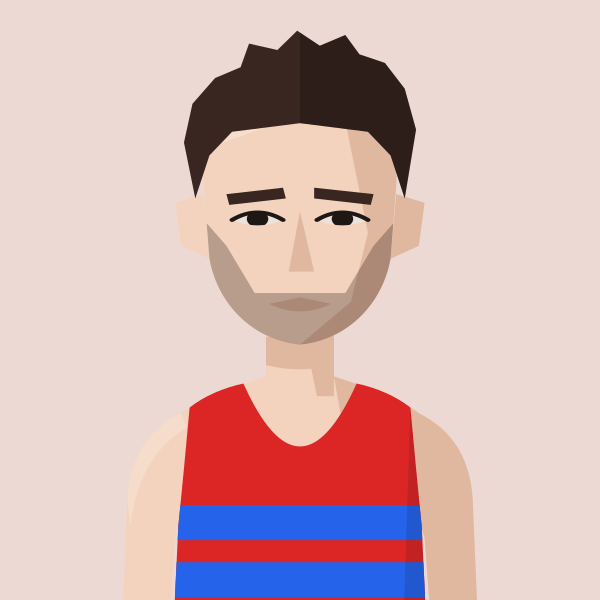
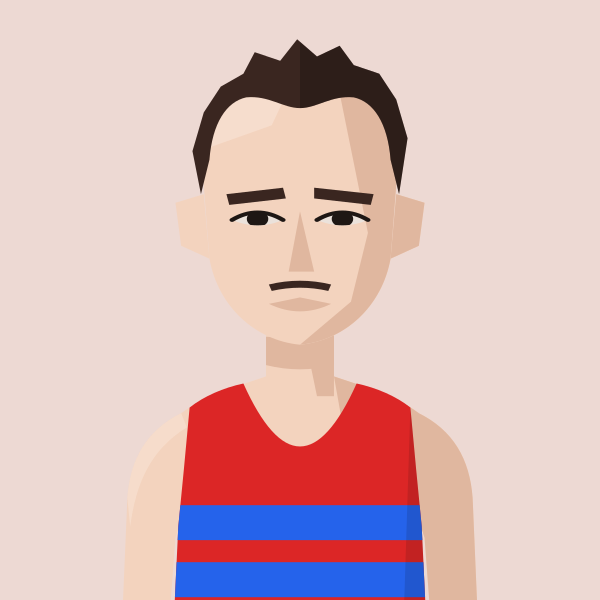
Add 12 from Mitcham Common Jan 2026 incl. Arthur Peel with necklace; Max Milarvie redrawn
Claude-Session: https://claude.ai/code/session_01MgmDWhFqnSSnP4iBLKXUZC

Changed region(s): [[0.3, 0.03, 0.69, 0.33], [0.33, 0.36, 0.66, 0.6]]

diff --git a/files/index.html b/files/index.html
@@ -573,11 +573,11 @@ const LoadingVests=()=>{
 const PORTRAIT_CLUBS=new Set(['BEL','KEN','THH','HHH','H/W','SLH','G&G','RAN','C/C','DUL','HOL','WAL','CRO','WOK','E&E','FUL','SOC','BOX','BOH','AFD','SUR','MIT','REI','DMV','STR','W4H','W/W','K&P','S&D','SEL','DWN','FOT','LCR','ADV','262','MPA','BAC','OME','VAC','HER']);
 // Superstar portraits: every spelling of the athlete's name used in the data -> file in portraits/athletes/
 const PORTRAITS=(()=>{const m={};const add=(file,club,...names)=>names.forEach(n=>m[n.toLowerCase()]={file,club});
-add('kitty-shepherd-cross','BEL','Kitty Shepherd-Cross','Kitty Shepherd Cross');add('jack-kavanagh','HOL','Jack Kavanagh');add('sam-bramwell','HHH','Sam Bramwell');add('suzie-harvey','G&G','Suzie Harvey');add('freddie-hessian','H/W','Freddie Hessian');add('jamie-crowe','H/W','Jamie Crowe');add('sam-gebreselassie','BEL','Samuel Gebreselassie','Sam Gebreselassie');add('jack-brotchie','HHH','Jack Brotchie');add('jack-millar','THH','Jack Millar');add('lucy-jones','HHH','Lucy Jones');add('alex-milne','H/W','Alex Milne');add('josh-trigwell','BEL','Josh Trigwell');add('mack-downie','BEL','Mack Downey','Mack Downie');add('george-ogden','SLH','George Ogden');add('stuart-mccallum','H/W','Stuart McCallum');add('andrew-penney','H/W','Andrew Penney');add('jeremy-dempsey','THH','Jeremy Dempsey');add('henry-hart','BEL','Henry Hart');add('john-sanderson','G&G','John Sanderson');add('andy-fyfe','BEL','Andrew Fyfe','Andy Fyfe');add('saron-haileselase','BEL','Saron Haileselase');add('paskar-owor','BEL','Paskar Owor');add('ruby-carter','H/W','Ruby Carter');add('tom-foster','G&G','Tom Foster');add('mark-tennyson','G&G','Mark Tennyson');add('richard-ollington','THH','Richard Ollington');add('james-preston','BEL','James Preston');add('daniel-wolff','BEL','Daniel Wolff');add('jonny-scott','BEL','Jonathan Scott','Jonny Scott');add('josh-mitchell','BEL','Josh Mitchell');add('dylan-evans','BEL','Dylan Evans');add('morgan-roberts','HHH','Morgan Roberts');add('fred-slemeck','H/W','Fred Slemeck','Frederick Slemeck');add('matthew-edgar','BEL','Matthew Edgar');add('sam-sommerville','BEL','Sam Sommerville');add('richard-mcdowell','H/W','Richard McDowell');add('margaret-coogan','HHH','Margaret Coogan');add('owen-hind','KEN','Owen Hind','Owen Hinds');add('indy-barnes','THH','Indy Barnes');add('conall-mcnally','BEL','Conall McNally');add('rowan-board','HHH','Rowan Board');add('andy-weir','THH','Andy Weir','Andrew Weir');add('neil-chisholm','THH','Neil Chisholm','Neal Chisholm');add('pancho-panchev','H/W','Pancho Panchev');add('adrien-royer','G&G','Adrien Royer');add('rob-kelly','BEL','Robert Kelly','Rob Kelly');add('alex-janiaud','BEL','Alex Janiaud');add('tom-renshaw','THH','Thomas Renshaw','Tom Renshaw');add('jack-ramm','DUL','Jack Ramm');add('findlay-dyer','BEL','Findlay Dyer');add('james-blackwood','DUL','James Blackwood');add('sonny-nicoll','H/W','Sonny Nicoll');add('anisse-ismaili','THH','Anisse Ismaili');add('caleb-hathaway','HHH','Caleb Hathaway');add('barnaby-day','KEN','Barnaby Day');add('simon-coppard','BEL','Simon Coppard');add('ronan-tanguy','HHH','Ronan Tanguy');add('chris-threadgold','BEL','Chris Threadgold');add('mathew-speed','KEN','Mathew Speed','Matthew Speed');add('john-lethbridge','THH','John Lethbridge');add('oliver-fox','THH','Oliver Fox');add('jack-woods','HOL','Jack Woods');add('larry-ryan','BEL','Larry Ryan');add('ethan-mccolgan','THH','Ethan McColgan');add('jonathan-collier','KEN','Jonathan Collier');add('andrew-green','HOL','Andrew Green','Andy Green');add('fintan-pearce','BEL','Fintan Pearce');add('daniel-shaw','HHH','Daniel Shaw');add('sam-tyas','BEL','Sam Tyas');add('tom-austin','HHH','Tom Austin');add('ian-ellwood','KEN','Ian Ellwood');add('rian-mccawley','BEL','Rian McCawley');add('kieran-barnes','HOL','Kieran Barnes');add('ed-mallett','H/W','Ed Mallett','Edward Mallett');add('john-hutchins','WOK','John Hutchins');add('george-gathercole','THH','George Gathercole');add('nick-lightfoot','G&G','Nick Lightfoot');add('eoin-brady','H/W','Eoin Brady');add('james-stockings','H/W','James Stockings');add('jack-hobden','H/W','Jack Hobden');add('hugo-hewitt','HOL','Hugo Hewitt');add('zach-nolan','BEL','Zach Nolan');add('isaac-lutaya','H/W','Isaac Lutaya');add('oliver-young','BEL','Oliver Young');add('ben-racle','KEN','Ben Racle');add('josh-snow','BEL','Josh Snow');add('oliver-reynolds','BEL','Oliver Reynolds');add('aaron-wilson','DUL','Aaron Wilson');add('liam-burthem','HHH','Liam Burthem');add('dan-pettitt','KEN','Dan Pettitt');add('bob-holt','H/W','Bob Holt');add('dave-holt','H/W','Dave Holt');add('mike-fuller','H/W','Mike Fuller');add('gerry-north','BEL','Gerry North');add('steve-gardner','BEL','Steve Gardner');add('alex-yee','KEN','Alex Yee');add('phil-wicks','BEL','Phil Wicks');add('john-gilbert','KEN','John Gilbert','Jonathan Gilbert');add('chris-busaileh','KEN','Chris Busaileh');add('jim-allchin','KEN','Jim Allchin');add('finn-johnson','H/W','Finn Johnson');add('will-cockerell','BEL','William Cockerell','Will Cockerell');add('nick-goolab','BEL','Nick Goolab');add('arne-dumez','BEL','Arne Dumez');add('geoff-jerwood','HHH','Geoff Jerwood','G Jerwood');add('alex-lee','HHH','Alex Lee');add('benedict-whitby','HHH','Benedict Whitby');add('falilou-kebe','BEL','Falilou Kebe');add('jack-dickson','H/W','Jack Dickson');add('charlie-dickinson','BEL','Charlie Dickinson','C Dickinson');add('phil-swinburn','HOL','Phil Swinburn');add('rob-armstrong','DUL','Rob Armstrong');add('ashley-goncalves','HHH','Ashley Goncalves');add('eddie-jodrell','BEL','Eddie Jodrell');add('thomas-gandee','BEL','Thomas Gandee');add('max-milarvie','DUL','Max Milarvie');add('alex-lennon','BEL','Alex Lennon');add('james-hoad','THH','James Hoad');add('william-gardner','BEL','William Gardner');add('paddy-roddy','THH','Paddy Roddy','PADDY RoDDY');add('simon-waterhouse','BEL','Simon Waterhouse');add('conall-whelan','BEL','Conall Whelan');add('simon-williams','BEL','Simon Williams');add('christian-lee','HOL','Christian Lee');add('sean-cordon','DUL','Sean Cordon','sean cordon');add('michael-mccarthy','BEL','Michael McCarthy','Michael Mccarthy');add('jeff-cunningham','HHH','Jeff Cunningham');add('sam-peters','H/W','Sam Peters');add('ryan-hickey','HHH','Ryan Hickey');add('ben-scott','BEL','Ben Scott');add('tom-gifford','BEL','Tom Gifford');add('valentin-rigori','BEL','Valentin Rigori');add('david-grima','H/W','David Grima');add('deron-fagan','HHH','Deron Fagan');add('lee-lintern','G&G','Lee Lintern');add('ian-acreman','G&G','Ian Acreman');add('alex-howard','THH','Alex Howard');add('james-hancock','BEL','James Hancock');add('nick-morris','BEL','Nick Morris');add('richard-sun','H/W','Richard Sun');add('jonathan-cocker','G&G','Jonathan Cocker');add('isobel-hodder','BEL','Isobel Hodder');add('emma-howsham','G&G','Emma Howsham');add('eilidh-hide','BEL','Eilidh Hide');add('karen-xiang','BEL','Karen Xiang');add('claire-grima','H/W','Claire Grima');add('emma-gordon','BEL','Emma Gordon');add('emily-lowery','BEL','Emily Lowery');add('felicity-harrison','BEL','Felicity Harrison');add('alice-martin','HOL','Alice Martin');add('juliet-hodder','BEL','Juliet Hodder');add('abbie-bulbulian','C/C','Abbie Bulbulian');add('lara-mangan','BEL','Lara Mangan');add('clare-elms','KEN','Clare Elms');add('james-nutt','HHH','James Nutt');add('colin-high','G&G','Colin High');add('ruby-whyte-wilding','BEL','Ruby Whyte-Wilding');add('sophie-tooley','HHH','Sophie Tooley');add('catherine-kandie','KEN','Catherine Kandie');add('olivia-stillman','HHH','Olivia Stillman');add('alex-gandee','BEL','Alex Gandee');add('billie-mcclosky','BEL','Billie McClosky');add('lisa-bailey','STR','Lisa Bailey');add('amy-clements','KEN','Amy Clements');add('bethanie-murray','THH','Bethanie Murray');add('evie-warren','G&G','Evie Warren');add('lucy-peters','BEL','Lucy Peters');add('emma-lord','H/W','Emma Lord');add('alice-bridger-morales','HHH','Alice Bridger Morales');add('emily-bradley','BEL','Emily Bradley');add('isabelle-pickett','G&G','Isabelle Pickett');add('felicity-hayward','THH','Felicity Hayward');add('gabriel-reynolds','HHH','Gabriel Reynolds');add('lara-bromilow','KEN','Lara Bromilow');add('megan-gildea','HHH','Megan Gildea');add('maeve-kenny','SLH','Maeve Kenny');add('emilie-arnoux','BEL','Emilie Arnoux');add('katie-good','KEN','Katie Good');add('ellie-freeden','KEN','Ellie Freeden');add('alice-smith','SLH','Alice Smith');add('florence-wiggins','THH','Florence Wiggins');add('alexandra-barbour','BEL','Alexandra Barbour');add('ella-king-powrie','BEL','Ella King Powrie');add('betsy-griffiths','RAN','Betsy Griffiths');add('nicola-douglas','STR','Nicola Douglas');add('georgie-furze','WOK','Georgie Furze');add('emma-rowland','BEL','Emma Rowland');add('charlotte-griffiths','BEL','Charlotte Griffiths');add('mary-james','SLH','Mary James');add('penny-oliver','BEL','Penny Oliver');add('ava-mcandie','H/W','Ava McAndie');add('bethan-goddard','BEL','Bethan Goddard');add('nikki-sturzaker','HHH','Nikki Sturzaker');add('hannah-english','HHH','Hannah English');add('clara-pettit','H/W','Clara Pettit');
+add('kitty-shepherd-cross','BEL','Kitty Shepherd-Cross','Kitty Shepherd Cross');add('jack-kavanagh','HOL','Jack Kavanagh');add('sam-bramwell','HHH','Sam Bramwell');add('suzie-harvey','G&G','Suzie Harvey');add('freddie-hessian','H/W','Freddie Hessian');add('jamie-crowe','H/W','Jamie Crowe');add('sam-gebreselassie','BEL','Samuel Gebreselassie','Sam Gebreselassie');add('jack-brotchie','HHH','Jack Brotchie');add('jack-millar','THH','Jack Millar');add('lucy-jones','HHH','Lucy Jones');add('alex-milne','H/W','Alex Milne');add('josh-trigwell','BEL','Josh Trigwell');add('mack-downie','BEL','Mack Downey','Mack Downie');add('george-ogden','SLH','George Ogden');add('stuart-mccallum','H/W','Stuart McCallum');add('andrew-penney','H/W','Andrew Penney');add('jeremy-dempsey','THH','Jeremy Dempsey');add('henry-hart','BEL','Henry Hart');add('john-sanderson','G&G','John Sanderson');add('andy-fyfe','BEL','Andrew Fyfe','Andy Fyfe');add('saron-haileselase','BEL','Saron Haileselase');add('paskar-owor','BEL','Paskar Owor');add('ruby-carter','H/W','Ruby Carter');add('tom-foster','G&G','Tom Foster');add('mark-tennyson','G&G','Mark Tennyson');add('richard-ollington','THH','Richard Ollington');add('james-preston','BEL','James Preston');add('daniel-wolff','BEL','Daniel Wolff');add('jonny-scott','BEL','Jonathan Scott','Jonny Scott');add('josh-mitchell','BEL','Josh Mitchell');add('dylan-evans','BEL','Dylan Evans');add('morgan-roberts','HHH','Morgan Roberts');add('fred-slemeck','H/W','Fred Slemeck','Frederick Slemeck');add('matthew-edgar','BEL','Matthew Edgar');add('sam-sommerville','BEL','Sam Sommerville');add('richard-mcdowell','H/W','Richard McDowell');add('margaret-coogan','HHH','Margaret Coogan');add('owen-hind','KEN','Owen Hind','Owen Hinds');add('indy-barnes','THH','Indy Barnes');add('conall-mcnally','BEL','Conall McNally');add('rowan-board','HHH','Rowan Board');add('andy-weir','THH','Andy Weir','Andrew Weir');add('neil-chisholm','THH','Neil Chisholm','Neal Chisholm');add('pancho-panchev','H/W','Pancho Panchev');add('adrien-royer','G&G','Adrien Royer');add('rob-kelly','BEL','Robert Kelly','Rob Kelly');add('alex-janiaud','BEL','Alex Janiaud');add('tom-renshaw','THH','Thomas Renshaw','Tom Renshaw');add('jack-ramm','DUL','Jack Ramm');add('findlay-dyer','BEL','Findlay Dyer');add('james-blackwood','DUL','James Blackwood');add('sonny-nicoll','H/W','Sonny Nicoll');add('anisse-ismaili','THH','Anisse Ismaili');add('caleb-hathaway','HHH','Caleb Hathaway');add('barnaby-day','KEN','Barnaby Day');add('simon-coppard','BEL','Simon Coppard');add('ronan-tanguy','HHH','Ronan Tanguy');add('chris-threadgold','BEL','Chris Threadgold');add('mathew-speed','KEN','Mathew Speed','Matthew Speed');add('john-lethbridge','THH','John Lethbridge');add('oliver-fox','THH','Oliver Fox');add('jack-woods','HOL','Jack Woods');add('larry-ryan','BEL','Larry Ryan');add('ethan-mccolgan','THH','Ethan McColgan');add('jonathan-collier','KEN','Jonathan Collier');add('andrew-green','HOL','Andrew Green','Andy Green');add('fintan-pearce','BEL','Fintan Pearce');add('daniel-shaw','HHH','Daniel Shaw');add('sam-tyas','BEL','Sam Tyas');add('tom-austin','HHH','Tom Austin');add('ian-ellwood','KEN','Ian Ellwood');add('rian-mccawley','BEL','Rian McCawley');add('kieran-barnes','HOL','Kieran Barnes');add('ed-mallett','H/W','Ed Mallett','Edward Mallett');add('john-hutchins','WOK','John Hutchins');add('george-gathercole','THH','George Gathercole');add('nick-lightfoot','G&G','Nick Lightfoot');add('eoin-brady','H/W','Eoin Brady');add('james-stockings','H/W','James Stockings');add('jack-hobden','H/W','Jack Hobden');add('hugo-hewitt','HOL','Hugo Hewitt');add('zach-nolan','BEL','Zach Nolan');add('isaac-lutaya','H/W','Isaac Lutaya');add('oliver-young','BEL','Oliver Young');add('ben-racle','KEN','Ben Racle');add('josh-snow','BEL','Josh Snow');add('oliver-reynolds','BEL','Oliver Reynolds');add('aaron-wilson','DUL','Aaron Wilson');add('liam-burthem','HHH','Liam Burthem');add('dan-pettitt','KEN','Dan Pettitt');add('bob-holt','H/W','Bob Holt');add('dave-holt','H/W','Dave Holt');add('mike-fuller','H/W','Mike Fuller');add('gerry-north','BEL','Gerry North');add('steve-gardner','BEL','Steve Gardner');add('alex-yee','KEN','Alex Yee');add('phil-wicks','BEL','Phil Wicks');add('john-gilbert','KEN','John Gilbert','Jonathan Gilbert');add('chris-busaileh','KEN','Chris Busaileh');add('jim-allchin','KEN','Jim Allchin');add('finn-johnson','H/W','Finn Johnson');add('will-cockerell','BEL','William Cockerell','Will Cockerell');add('nick-goolab','BEL','Nick Goolab');add('arne-dumez','BEL','Arne Dumez');add('geoff-jerwood','HHH','Geoff Jerwood','G Jerwood');add('alex-lee','HHH','Alex Lee');add('benedict-whitby','HHH','Benedict Whitby');add('falilou-kebe','BEL','Falilou Kebe');add('jack-dickson','H/W','Jack Dickson');add('charlie-dickinson','BEL','Charlie Dickinson','C Dickinson');add('phil-swinburn','HOL','Phil Swinburn');add('rob-armstrong','DUL','Rob Armstrong');add('ashley-goncalves','HHH','Ashley Goncalves');add('eddie-jodrell','BEL','Eddie Jodrell');add('thomas-gandee','BEL','Thomas Gandee');add('max-milarvie','DUL','Max Milarvie');add('alex-lennon','BEL','Alex Lennon');add('james-hoad','THH','James Hoad');add('william-gardner','BEL','William Gardner');add('paddy-roddy','THH','Paddy Roddy','PADDY RoDDY');add('simon-waterhouse','BEL','Simon Waterhouse');add('conall-whelan','BEL','Conall Whelan');add('simon-williams','BEL','Simon Williams');add('christian-lee','HOL','Christian Lee');add('sean-cordon','DUL','Sean Cordon','sean cordon');add('michael-mccarthy','BEL','Michael McCarthy','Michael Mccarthy');add('jeff-cunningham','HHH','Jeff Cunningham');add('sam-peters','H/W','Sam Peters');add('ryan-hickey','HHH','Ryan Hickey');add('ben-scott','BEL','Ben Scott');add('tom-gifford','BEL','Tom Gifford');add('valentin-rigori','BEL','Valentin Rigori');add('david-grima','H/W','David Grima');add('deron-fagan','HHH','Deron Fagan');add('lee-lintern','G&G','Lee Lintern');add('ian-acreman','G&G','Ian Acreman');add('alex-howard','THH','Alex Howard');add('james-hancock','BEL','James Hancock');add('nick-morris','BEL','Nick Morris');add('richard-sun','H/W','Richard Sun');add('jonathan-cocker','G&G','Jonathan Cocker');add('isobel-hodder','BEL','Isobel Hodder');add('emma-howsham','G&G','Emma Howsham');add('eilidh-hide','BEL','Eilidh Hide');add('karen-xiang','BEL','Karen Xiang');add('claire-grima','H/W','Claire Grima');add('emma-gordon','BEL','Emma Gordon');add('emily-lowery','BEL','Emily Lowery');add('felicity-harrison','BEL','Felicity Harrison');add('alice-martin','HOL','Alice Martin');add('juliet-hodder','BEL','Juliet Hodder');add('abbie-bulbulian','C/C','Abbie Bulbulian');add('lara-mangan','BEL','Lara Mangan');add('clare-elms','KEN','Clare Elms');add('james-nutt','HHH','James Nutt');add('colin-high','G&G','Colin High');add('gavin-eccles','BEL','Gavin Eccles');add('nicholas-torry','KEN','Nicholas Torry');add('samuel-dames','KEN','Samuel Dames');add('tom-lole','BEL','Tom Lole');add('will-marshall','BEL','Will Marshall');add('stephen-mcleod','HHH','Stephen McLeod');add('rory-orsborn','HHH','Rory Orsborn');add('thomas-dugre','BEL','Thomas Dugre');add('arthur-peel','BEL','Arthur Peel');add('angus-lamb','BEL','Angus Lamb');add('andrew-warburton','HHH','Andrew Warburton');add('robert-laing','KEN','Robert Laing');add('ruby-whyte-wilding','BEL','Ruby Whyte-Wilding');add('sophie-tooley','HHH','Sophie Tooley');add('catherine-kandie','KEN','Catherine Kandie');add('olivia-stillman','HHH','Olivia Stillman');add('alex-gandee','BEL','Alex Gandee');add('billie-mcclosky','BEL','Billie McClosky');add('lisa-bailey','STR','Lisa Bailey');add('amy-clements','KEN','Amy Clements');add('bethanie-murray','THH','Bethanie Murray');add('evie-warren','G&G','Evie Warren');add('lucy-peters','BEL','Lucy Peters');add('emma-lord','H/W','Emma Lord');add('alice-bridger-morales','HHH','Alice Bridger Morales');add('emily-bradley','BEL','Emily Bradley');add('isabelle-pickett','G&G','Isabelle Pickett');add('felicity-hayward','THH','Felicity Hayward');add('gabriel-reynolds','HHH','Gabriel Reynolds');add('lara-bromilow','KEN','Lara Bromilow');add('megan-gildea','HHH','Megan Gildea');add('maeve-kenny','SLH','Maeve Kenny');add('emilie-arnoux','BEL','Emilie Arnoux');add('katie-good','KEN','Katie Good');add('ellie-freeden','KEN','Ellie Freeden');add('alice-smith','SLH','Alice Smith');add('florence-wiggins','THH','Florence Wiggins');add('alexandra-barbour','BEL','Alexandra Barbour');add('ella-king-powrie','BEL','Ella King Powrie');add('betsy-griffiths','RAN','Betsy Griffiths');add('nicola-douglas','STR','Nicola Douglas');add('georgie-furze','WOK','Georgie Furze');add('emma-rowland','BEL','Emma Rowland');add('charlotte-griffiths','BEL','Charlotte Griffiths');add('mary-james','SLH','Mary James');add('penny-oliver','BEL','Penny Oliver');add('ava-mcandie','H/W','Ava McAndie');add('bethan-goddard','BEL','Bethan Goddard');add('nikki-sturzaker','HHH','Nikki Sturzaker');add('hannah-english','HHH','Hannah English');add('clara-pettit','H/W','Clara Pettit');
 return m;})();
 // Athlete header figure: superstar portrait if we have one, else a grey runner in the club vest, else the plain vest icon
 // Changes whenever any portrait changes (set by tools/build_og.py), so browsers fetch fresh images instead of old cached ones
-const PORTRAIT_V='d000ddeb';
+const PORTRAIT_V='1718189b';
 const AthletePortrait=({name,club,w,fill,onClick})=>{const[failed,setFailed]=useState(false);const pk=PORTRAITS[normalizeNameForCompare(name).replace(/\s*\([^)]*\)$/,'')];const file=pk&&pk.club===club?pk.file:null;const src=file?`/portraits/athletes/${file}.svg?v=${PORTRAIT_V}`:PORTRAIT_CLUBS.has(club)?`/portraits/clubs/${club.replace(/\//g,'').replace(/&/g,'and')}.svg?v=${PORTRAIT_V}`:null;if(!src||failed)return<div onClick={onClick} className={onClick?'cursor-pointer':''}><ClubShield club={club} size={w}/></div>;const h=Math.round(w*148/126),ih=Math.round(w*1.4);if(fill)return<div onClick={onClick} className="cursor-pointer" style={{alignSelf:'stretch',minHeight:h,aspectRatio:'126 / 148',flexShrink:0,position:'relative',borderRadius:4,overflow:'hidden'}}><img src={src} alt={file?`Portrait of ${name.replace(/\s*\([^)]*\)$/,'')}`:`Runner in ${CLUBS[club]?.name||club} vest`} style={{position:'absolute',top:0,left:0,display:'block',width:'100%',height:'auto'}} onError={()=>setFailed(true)}/></div>;return<div style={{width:w,height:h,borderRadius:4,overflow:'hidden',flexShrink:0}}><img src={src} alt={file?`Portrait of ${name.replace(/\s*\([^)]*\)$/,'')}`:`Runner in ${CLUBS[club]?.name||club} vest`} width={w} height={ih} style={{display:'block',width:w,height:ih}} onError={()=>setFailed(true)}/></div>;};
 const getClubVestSvg=(club)=>{
   const p="M3 0 L6 0 Q7 4 10 5 Q13 4 14 0 L17 0 L17 20 L3 20 Z";

diff --git a/tools/gen_portraits.py b/tools/gen_portraits.py
@@ -130,6 +130,7 @@ HAIR["messyfringe"] = '<path d="M63,102 L59,76 L62,58 L70,46 L79,41 L82,30 L92,3
 HAIR["wavyback"] = '<path d="M64,108 C60,58 80,38 100,38 C121,38 140,58 136,108 L131,88 Q128,72 117,66 Q108,63 100,64 Q90,63 82,67 Q72,73 69,88 Z"/><path d="M64,96 Q56,104 60,114 Q54,122 60,132 Q56,142 64,148 L68,140 Q64,132 67,124 Q63,116 67,108 Z"/><path d="M136,96 Q144,104 140,114 Q146,122 140,132 Q144,142 136,148 L132,140 Q136,132 133,124 Q137,116 133,108 Z"/>'
 HAIR_BACK["wavyback"] = '<path d="M60,90 C58,54 80,36 100,36 C120,36 142,54 140,90 Q148,104 142,118 Q150,132 140,146 Q144,158 132,160 L68,160 Q56,158 60,146 Q50,132 58,118 Q52,104 60,90 Z"/>'
 FACIAL = {
+    "littletache": '<path d="M89,142 Q100,138.5 111,142 L110,145 Q100,142 90,145 Z"/>',
     "shortbeard": '<path d="M66,112 L74,124 L84,146 L116,146 L126,124 L134,112 L134,180 L66,180 Z" opacity=".6"/><path d="M86,141 L100,138 L114,141 L113,146 L100,143.5 L87,146 Z" opacity=".7"/>',
     "mostubble": '<path d="M66,112 L74,124 L84,146 L116,146 L126,124 L134,112 L134,180 L66,180 Z" opacity=".32"/><path d="M84,141 L100,137 L116,141 L117,150 L112,147 L100,144 L88,147 L83,150 Z"/>',
     "muttonchops": '<path d="M65,98 L70,98 L71,120 Q74,134 84,143 Q86,148 82,151 Q74,151 70,143 Q66,132 65,118 Z"/><path d="M135,98 L130,98 L129,120 Q126,134 116,143 Q114,148 118,151 Q126,151 130,143 Q134,132 135,118 Z"/>',
@@ -142,7 +143,7 @@ FACIAL = {
 def _eyewhite(sk):  # an off-white, tinted towards the skin so it never glares
     return '#' + ''.join(f'{round(int(sk[i:i+2],16)*0.3+0xE8*0.7):02X}' for i in (1,3,5))
 
-def figure(kit, mode="custom", skin=1, hair="crop", hair_colour="dark brown", facial=None, cap=None, shades=False, tattoos=False, beanie=None, mud=False, glasses=False, roots=None, stars=0, gaunt=False, greying=False, headband=None, cap_back=False, facial_colour=None, tag="f", shades_col=None, shades_up=False, scrunchie=None, crown=False, jacket=None, medal=None, temples=False, cleft=False, brow_colour=None, jacket_marks=None, define=None, frown=False, hood=None, puffy=False, creases=False):
+def figure(kit, mode="custom", skin=1, hair="crop", hair_colour="dark brown", facial=None, cap=None, shades=False, tattoos=False, beanie=None, mud=False, glasses=False, roots=None, stars=0, gaunt=False, greying=False, headband=None, cap_back=False, facial_colour=None, tag="f", shades_col=None, shades_up=False, scrunchie=None, crown=False, jacket=None, medal=None, temples=False, cleft=False, brow_colour=None, jacket_marks=None, define=None, frown=False, hood=None, puffy=False, creases=False, necklace=None):
     primary, extras, ground = KITS[kit]
     line = mode == "outline"
     if mode == "custom": sk, dk, lt = SKIN[skin]
@@ -223,7 +224,7 @@ def figure(kit, mode="custom", skin=1, hair="crop", hair_colour="dark brown", fa
             hg.append(f'<g fill="{dk}" opacity=".65"><path d="M74,118 Q86,121 90,139 Q84,131 75,122 Z"/><path d="M126,118 Q114,121 110,139 Q116,131 125,122 Z"/></g><g fill="{lt}" opacity=".6"><path d="M73,115 Q84,115 90,120 Q82,117 73,117 Z"/><path d="M127,115 Q116,115 110,120 Q118,117 127,117 Z"/></g>')
         if facial:
             fc = HAIR_COL.get(facial_colour, facial_colour) if facial_colour else hc
-            if facial in ("moustache", "goatee"):
+            if facial in ("moustache", "goatee", "littletache"):
                 hg.append(f'<g fill="{fc}">{FACIAL[facial]}</g>')
             else:
                 hg.append(f'<g clip-path="url(#h{tag})" fill="{fc}">{FACIAL[facial]}</g>')
@@ -310,6 +311,9 @@ def figure(kit, mode="custom", skin=1, hair="crop", hair_colour="dark brown", fa
     # kit: the site's own vest icon, scaled into this vest
     if not jacket: o.append(f'<g clip-path="url(#v{tag})"><path d="{VEST}" fill="{primary}"/><g {KIT_MAP}>{extras}</g>'
              f'<path d="M139,204 Q141,226 143,246 L147,330 L135,330 Z" fill="#000" opacity="{0 if line else .12}"/></g>')
+    if necklace:  # thin chain resting on the collarbones
+        o.append(f'<path d="M87,195 Q90,214 100,224 Q110,214 113,195" fill="none" stroke="{necklace}" stroke-width="1.6" stroke-linecap="round"/>'
+                 f'<path d="M87,195 Q90,214 100,224 Q110,214 113,195" fill="none" stroke="#000" stroke-opacity=".25" stroke-width="1.6" stroke-dasharray="1.2 1.6"/>')
     if medal:  # medal on a ribbon that loops round the back of the neck
         mc = {"gold": ("#D9AA3E", "#BE9030")}[medal]
         o.append('<path d="M79,197 L88,193 L99,252 L92,252 Z" fill="#2B5BB8"/><path d="M121,197 L112,193 L101,252 L108,252 Z" fill="#234C9A"/>'
@@ -540,7 +544,7 @@ save("eddie-jodrell", figure("BEL", skin=2, hair="crop", hair_colour="#2E211B"))
 save("thomas-gandee", figure("BEL", skin=1, hair="quiff", hair_colour="#B9955E"))
 # Wimbledon Common, Feb 2026 (race 439)
 W439 = [
- ("max-milarvie","DUL","Max Milarvie",dict(skin=1,hair="tousled",hair_colour="#3A2620",facial="stubble"),"tousled dark brown hair, stubble"),
+ ("max-milarvie","DUL","Max Milarvie",dict(skin=1,hair="tuftrecede",hair_colour="#3A2620",facial="littletache"),"slightly receding dark hair, little moustache"),
  ("alex-lennon","BEL","Alex Lennon",dict(skin=1,hair="bigcurls",hair_colour="#3A2620"),"short dark curly hair"),
  ("james-hoad","THH","James Hoad",dict(skin=1,hair="crop",hair_colour="#6B4A2E"),"short mid brown hair"),
  ("william-gardner","BEL","William Gardner",dict(skin=1,hair="croppeak",hair_colour="#9A6A44",facial="stubble"),"short gingery hair with a widow peak, stubble"),
@@ -593,3 +597,22 @@ for slug, club, name, kw, alt in W440:
     save(slug, figure(club, **kw))
 save("james-nutt", figure("HHH", skin=1, hair="quiff", hair_colour="#5A3E2A"))
 save("colin-high", figure("G&G", skin=1, hair="horseshoe", hair_colour="#8E6643", facial="beard", facial_colour="#8A5A36"))
+# Mitcham Common, Jan 2026 (race 433)
+W433 = [
+ ("gavin-eccles","BEL","Gavin Eccles",dict(skin=1,hair="shortcurls",hair_colour="#2E211B"),"short dark wavy hair"),
+ ("nicholas-torry","KEN","Nicholas Torry",dict(skin=1,hair="crop",hair_colour="#8E6643",glasses=True),"short light brown hair, glasses"),
+ ("samuel-dames","KEN","Samuel Dames",dict(skin=1,hair="quiff",hair_colour="#9A7650",facial="beard"),"swept-up light brown hair, beard"),
+ ("tom-lole","BEL","Tom Lole",dict(skin=2,hair="crop",hair_colour="#2A1D18"),"short dark hair"),
+ ("will-marshall","BEL","Will Marshall",dict(skin=1,hair="quiff",hair_colour="#6B4A2E"),"swept-up brown hair"),
+ ("stephen-mcleod","HHH","Stephen McLeod",dict(skin=1,hair="crop",hair_colour="#2E211B",facial="beard"),"short dark hair, beard"),
+ ("rory-orsborn","HHH","Rory Orsborn",dict(skin=1,hair="bigcurls",hair_colour="#2E211B"),"big dark curls"),
+]
+W433 += [
+ ("thomas-dugre","BEL","Thomas Dugre",dict(skin=1,hair="quiff",hair_colour="#6B4A2E",facial="shortbeard"),"swept-up brown hair, trimmed beard"),
+ ("arthur-peel","BEL","Arthur Peel",dict(skin=1,hair="crop",hair_colour="#6B4A2E",necklace="#CFCFCF"),"short brown hair, silver chain necklace"),
+ ("angus-lamb","BEL","Angus Lamb",dict(skin=1,hair="quiff",hair_colour="#8E6643"),"swept-up light brown hair"),
+ ("andrew-warburton","HHH","Andrew Warburton",dict(skin=1,hair="crop",hair_colour="#2E211B",facial="shortbeard"),"short dark hair, trimmed beard"),
+ ("robert-laing","KEN","Robert Laing",dict(skin=1,hair="crop",hair_colour="#2E211B",facial="stubble"),"short dark hair, stubble"),
+]
+for slug, club, name, kw, alt in W433:
+    save(slug, figure(club, **kw))
